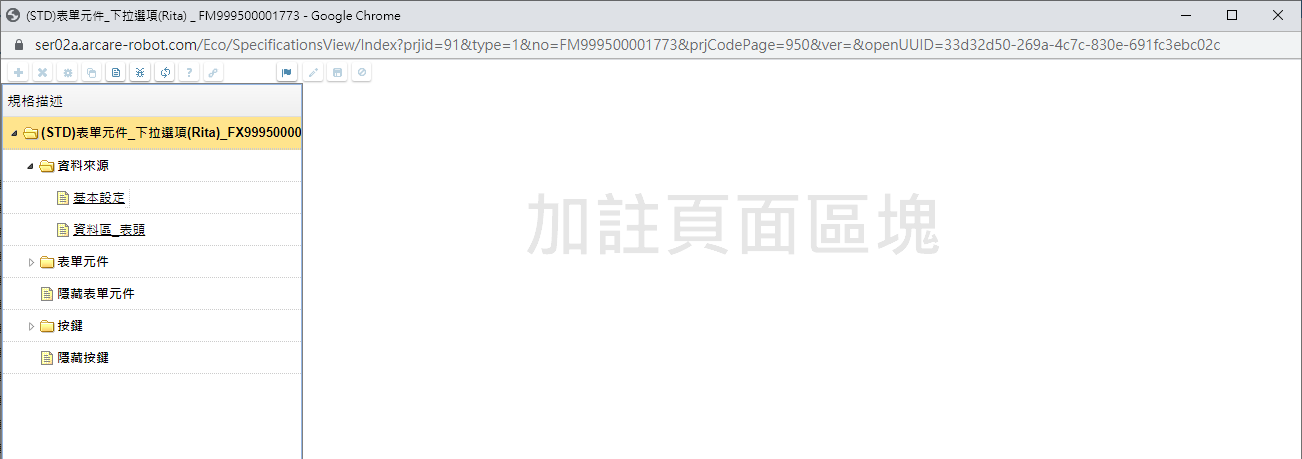
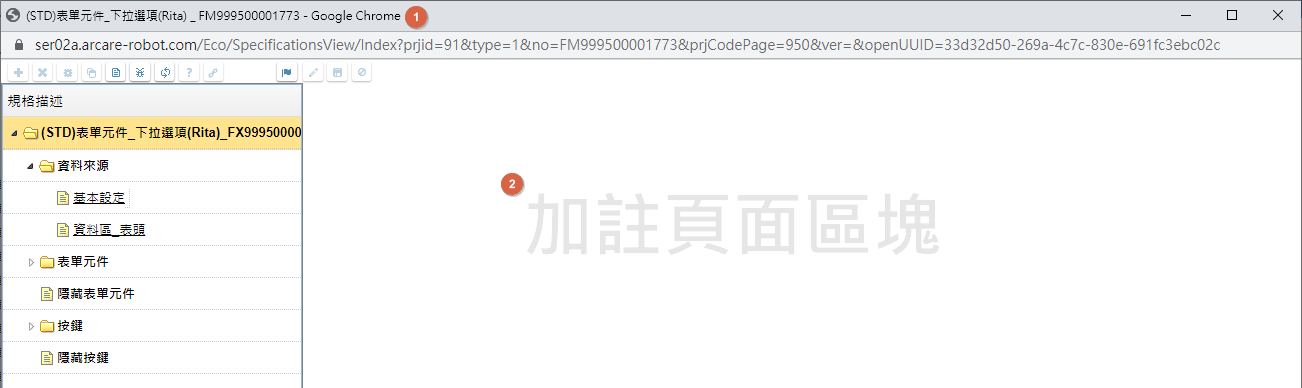
#8637

diff --git a/8.10.2/IDE/Specification/SpecificationsView/README.md b/8.10.2/IDE/Specification/SpecificationsView/README.md
@@ -5,133 +5,189 @@
 * [版面資訊通則][link_ruleother1]
 
 ## <div id="form-action">動作說明</div>
-* 開啟後視窗寬高預設為 1100 * 700, 並提供使用者調整寬高
-* 動作流程
-    * ![pic][image_flow_open]
-
+* 開啟後視窗寬高預設為 1300 * 750, 並提供使用者調整寬高
 
 ## <div id="object-desc">欄位說明</div>
 
 * <p id="fieldbreak1" style="color:blue;font-weight:bold">基本</p>
 
-    * ![pic][image_spec_form_block1]
+    * ![pic][image_fieldbreak2]
     * `(1)視窗標題`
         * 用途說明
         * 規格說明
             * 依專案語系顯示: 表單名稱_表單料號
-    * `(1)新增子節點`
+    * `(2)加註頁面區塊`
         * 用途說明
         * 規格說明
-            * 當駐留節點為【資料來源、隱藏表單元件、隱藏按鍵】按鈕致能, 否則 除能
-            * 當駐留節點=資料來源: 開啟[新增資料區][]
-            * 當駐留節點=隱藏表單元件: 開啟[新增隱藏元件][]
-            * 當駐留節點=隱藏按鍵: 開啟[新增隱藏按鍵][]
-    * `(1)刪除子節點`
+            * 依駐留節點類別, 顯示對應的規格定義內容
+
+* <p id="fieldbreak2" style="color:blue;font-weight:bold">規格描述區塊</p>
+
+    * ![pic][image_fieldbreak2]
+    * `(1)規格描述區塊`
         * 用途說明
         * 規格說明
-            * 當駐留節點為【資料來源-資料區、隱藏元件名_元件料號、隱藏按鍵名_按鍵料號、非基本設定的加註行為選項】按鈕致能, 否則 除能
+            * 顯示表單相關分類、單元、加註，依樹狀方式呈現
+                * 樹狀分階為 `(2)根節點`、`(3)單元分類`、`(4)單元`、`(5)加註行為`
+            * 節點圖示顯示
+                * 節點內有子階時, 節點圖示為資料夾, 並可展開/關閉子階內容
+                * 節點內無子階時, 節點圖示為文件
+            * 可調整區塊寬度, 規則如下:
+                * 調整後最小寬度不得低於**280px**; 最大寬度不得高於**500px**
+                * 規格定義視窗的寬度, 在調整過程中同比例增加寬度
+    * `(2)根節點`
+        * 用途說明
+        * 規格說明
+            * 顯示 "表單名稱 _ 成品料號"
+            * 駐留節點, `加註頁面區塊`清空
+            * `(6)滑鼠右鍵選單`: 重新載入
+    * `(3)單元分類`
+        * 用途說明
+        * 規格說明
+            * 節點顯示固定文字, 分別為
+                * 資料來源
+                    * `(6)滑鼠右鍵選單`: 新增/重新載入
+                * 表單元件
+                    * `(6)滑鼠右鍵選單`: 重新載入
+                * 隱藏表單元件
+                    * `(6)滑鼠右鍵選單`: 新增/重新載入
+                * 按鍵
+                    * `(6)滑鼠右鍵選單`: 重新載入
+                * 隱藏按鍵
+                    * `(6)滑鼠右鍵選單`: 新增/重新載入                
+            * 駐留節點, `加註頁面區塊`清空
+    * `(4)單元`
+        * 用途說明
+        * 規格說明
+            * 顯示 "(加註數量) 單元名稱 _ 單元料號"
+            * 駐留節點, `加註頁面區塊`清空
+            * `(6)滑鼠右鍵選單`
+                * 元件單元: 行為選項/複製其他元件/重新載入
+                * 隱藏元件單元: 行為選項/刪除/重新命名/複製其他元件/重新載入
+                * 按鍵單元: 行為選項/複製其他按鍵/重新載入
+                * 隱藏按鍵單元: 行為選項/刪除/重新命名/複製其他按鍵/重新載入
+            * 執行滑鼠雙擊時, 可開啟[規格備註][link_specification]
+    * `(5)加註行為`
+        * 用途說明
+        * 規格說明
+            * 資料來源下的加註行為
+                * 基本設定
+                    * 顯示行為名稱
+                    * `(6)滑鼠右鍵選單`: 重新載入
+                    * 執行滑鼠雙擊時, 可開啟[規格備註][link_specification]
+                * 資料區
+                    * 顯示 "資料區_檔區"
+                    * `(6)滑鼠右鍵選單`: 新增/刪除/元件對應/重新載入
+            * 元件加註行為
+                * 基本設定
+                    * 顯示行為名稱
+                    * `(6)滑鼠右鍵選單`: 行為選項/重新載入
+                * 其它加註行為
+                    * 若加註有設定執行條件, 則顯示 "行為名稱【執行條件說明】", 若無設定, 則顯示行為名稱
+                    * `(6)滑鼠右鍵選單`: 行為選項/刪除/複製本筆/重新載入
+            * 按鍵加註行為
+                * 基本設定
+                    * 顯示行為名稱
+                    * `(6)滑鼠右鍵選單`: 行為選項/重新載入
+                * 執行限制
+                    * 若加註有設定前置條件、判斷條件, 則顯示 "執行限制【前置條件說明, 判斷條件說明】", 若無設定, 則顯示行為名稱
+                    * `(6)滑鼠右鍵選單`: 行為選項/刪除/複製本筆/重新載入
+                * 其它加註行為
+                    * 若加註有設定執行條件, 則顯示 "行為名稱【執行條件說明1, 執行條件說明2, ...】", 若無設定, 則顯示行為名稱
+                    * `(6)滑鼠右鍵選單`: 行為選項/刪除/複製本筆/重新載入
+            * 駐留節點, 將對應的加註行為設定頁面載入`加註頁面區塊`中
+
+* <p id="fieldbreak3" style="color:blue;font-weight:bold">按鍵操作區塊</p>
+
+    * ![pic][image_fieldbreak3]
+    * `(1)新增節點`
+        * 用途說明
+        * 規格說明
+            * 當駐留節點為 資料來源、隱藏表單元件、隱藏按鍵、資料區 則按鍵致能, 否則 除能
+            * 當駐留節點為 資料來源、資料區: 開啟[新增資料區][link_AddDataAreaForm]
+            * 當駐留節點為 隱藏表單元件: 開啟[新增隱藏元件][link_AddHiddenObject]
+            * 當駐留節點為 隱藏按鍵: 開啟[新增隱藏按鍵][link_AddHiddenButton]
+    * `(2)刪除節點`
+        * 用途說明
+        * 規格說明
+            * 當駐留節點為 資料來源/資料區、隱藏元件單元、隱藏按鍵單元、非基本設定的加註行為選項 則按鍵致能, 否則 除能
             * 執行刪除駐留節點、及其下所有子階節點對應的加註資料
-    * `(1)設定`
+    * `(3)行為選項`
         * 用途說明
         * 規格說明
-            * 當駐留節點為【元件名_元件料號、按鍵名_按鍵料號、隱藏元件名_元件料號、隱藏按鍵名_按鍵料號】按鈕致能, 否則 除能
-            * 當駐留節點=元件名_元件料號、隱藏元件名_元件料號, 開啟[元件行為選項][]
-            * 當駐留節點=按鍵名_按鍵料號、隱藏按鍵名_按鍵料號, 開啟[按鍵行為選項][]
-            * 關閉行為選項, 重新產生並取得規格關聯的加註內容
-    * `(2)規格備註`
+            * 當駐留節點為 元件單元、按鍵單元、隱藏元件單元、隱藏按鍵單元、上述單元的加註行為 則按鍵致能, 否則 除能
+            * 當駐留節點為 元件單元、隱藏元件單元, 開啟[元件行為選項][link_ObjectBehavior]
+            * 當駐留節點為 按鍵單元、隱藏按鍵單元, 開啟[按鍵行為選項][link_ButtonBehavior]
+            * 關閉行為選項, 重新載入節點及單元的加註數量
+    * `(4)加註複製`
         * 用途說明
         * 規格說明
-            * 當駐留節點項目為【表單名稱_表單成品料號、基本設定、資料來源-資料區、元件名_元件料號、按鍵名_按鍵料號、隱藏元件名_元件料號、隱藏按鍵名_按鍵料號】按鈕致能, 否則 除能
-            * 當致能時, 執行按鈕時, 依駐留節點開啟對應的[規格備註][link_specification]
-                * 若駐留節點項目為【表單名稱_表單成品料號、基本設定、資料來源-資料區】, 開啟後傳入報表名稱、報表料號
-                * 若駐留節點項目為【元件名_元件料號、按鍵名_按鍵料號、隱藏元件名_元件料號、隱藏按鍵名_按鍵料號】, 開啟後傳入報表元件名稱、報表元件料號
-        * 動作流程
-            * ![pic][image_flow_open_spec]
-    * `(3)檢錯`
+            * 當駐留節點為 元件單元、按鍵單元、隱藏元件單元、隱藏按鍵單元 則按鍵致能, 否則 除能
+            * 當駐留節點為 元件單元、隱藏元件單元, 開啟[元件加註複製][link_CopyObjectAnnotationForm]
+            * 當駐留節點為 按鍵單元、隱藏按鍵單元, 開啟[按鍵加註複製][link_CopyButtonAnnotationForm]
+            * 關閉行為選項, 重新載入節點及單元的加註數量   
+    * `(5)規格備註`
+        * 用途說明
+        * 規格說明
+            * 當駐留節點為 資料來源、元件單元、按鍵單元、隱藏元件單元、隱藏按鍵單元 則按鍵致能, 否則 除能
+            * 依駐留節點開啟對應的[規格備註][link_specification]
+    * `(6)檢錯`
         * 用途說明
             * 檢查駐留筆表單及表單元件已完成的規格, 進行語法及完成度的檢查
         * 規格說明
             * 當檢查完成, 且無錯誤時, 顯示訊息盒【標題: 系統訊息 / 內容: 檢錯完成。 / 按鍵: 確定】
                 * 執行確定, 關閉表單
             * 當檢查完成, 且存在錯誤時, 展開所有節點, 錯誤單元以紅字顯示, 並以Hint方式顯示第一筆錯誤資訊
-        * 動作流程
-            * ![pic][image_flow_error_detection]
-    * `(4)重新整理`
+    * `(7)重新載入`
         * 用途說明
         * 規格說明
-            * 重新顯示`(8)規格描述區塊`, 若已駐留節點, 重整後駐留節點須為原駐留節點
-        * 動作流程
-            * ![pic][image_flow_reflash]
-    * `(5)線上說明`
+            * 重新載入`(1)規格描述區塊`, 載入後駐留原駐留節點
+    * `(8)線上說明`
         * 用途說明
         * 規格說明
-            * 當駐留節點項目為【表單名稱_表單成品料號、基本設定、資料來源-資料區、元件名_元件料號、按鍵名_按鍵料號、隱藏元件名_元件料號、隱藏按鍵名_按鍵料號】按鈕致能, 否則 除能
+            * 當駐留節點為 根節點、元件單元、按鍵單元、隱藏元件單元、隱藏按鍵單元、加註行為 則按鍵致能, 否則 除能
             * 依駐留節點開啟對應的線上說明文件
-        * 動作流程
-            * ![pic][image_flow_online_help]
-    * `(6)相關元件`
+    * `(9)相關元件`
         * 用途說明
         * 規格說明
-            * <ps>以下為目前操作行為, 待確認是否修正</ps>
-            * 當駐留節點項目為【元件名_元件料號、按鍵名_按鍵料號、隱藏按鍵名_按鍵料號、加註行為選項】按鈕致能, 否則 除能
-            * 依駐留報表元件單元, 開啟[元件欄位清單][], 傳入: 表單名稱、駐留單元名稱
-        * 動作流程
-            * ![pic][image_flow_components]
-    * `(7)加註狀態`
+            * 當駐留節點為 元件單元、按鍵單元、隱藏按鍵單元、加註行為 則按鍵致能, 否則 除能
+            * 依駐留報表元件單元, 開啟[元件欄位清單][link_FormAndReportComponents], 傳入: 表單名稱、駐留單元名稱
+    * `(10)加註狀態`
         * 用途說明
             * 記錄該表單是否加註完成的標記
         * 規格說明
-            * 當狀態為**開工**時, 執行按鍵將狀態改為**完工**, 顯示完成圖示: ![pic][image_report_annotation_finish]
-            * 當狀態為**完工**時, 執行按鍵將狀態改為**開工**, 顯示開工圖示: ![pic][image_report_annotation_start]
-        * 動作流程
-            * ![pic][image_flow_annotation_state]
-    * `(8)規格描述區塊`
+            * 當狀態為開工時, 執行按鍵將狀態改為完工
+            * 當狀態為完工時, 執行按鍵將狀態改為開工
+    * `(11)元件對應`
         * 用途說明
         * 規格說明
-            * 節點顯示方式, 請參考畫面及下列規則
-                * 節點內有子階時, 節點圖示為資料夾, 並可展開/關閉子階內容
-                * 節點內無子階時, 節點圖示為文件
-                * 各階層顯示內容如下
-                    |節點顯示內容 |所屬階層 |筆數 |支援雙擊 |同階排序方式 |顯示語系來源 |
-                    |------------|--------|-----|--------|------------|-----------|
-                    |報表名稱_報表成品料號 |0 |1|v | |專案 |
-                    |基本設定      |1 |1 |v | |平台 |
-                    |資料來源      |1 |1 |v | |平台 |
-                    |分頁模式      |1 |1 |v | |平台 |
-                    |報表元件      |1 |1 | | |平台 |
-                    |報表元件名稱_元件料號 |2 |n |v |依單元料號 |專案 |
-            * 當駐留節點支援雙擊, 則執行滑鼠雙擊時, 可開啟[規格備註][link_specification]
-                * 若駐留節點項目為【報表名稱_報表成品料號、基本設定、資料來源、分頁模式】, 開啟後傳入報表名稱、報表料號
-                * 若駐留節點項目為【報表元件名稱_元件料號】, 開啟後傳入報表元件名稱、報表元件料號
-            * 依駐留節點類別+元件類別, 單擊開啟對應加註頁面, 顯示於`(9)加註頁面區塊`
-            * 節點: 報表元件名稱, 取得駐留筆報表, 且報表元件類型存在【rTP.文字標題、rTF.文字方塊、rTA.多行文字、rCB.核取方塊、rFrame.框線、rBC.條碼、rEChart.嵌入圖表、rImg.圖片、rLogo.企業標誌】的報表元件清單顯示
-            * 滑鼠移入右邊框, 可調整區塊寬度, 規則如下:
-                * 調整後最小寬度不得低於**280px**; 最大寬度不得高於**500px**
-                * 規格定義視窗的寬度, 在調整過程中同比例增加寬度
-        * 動作流程
-            * ![pic][image_flow_annotation]
-    * `(9)加註頁面區塊`
+            * 開啟[元件對應][link_FAConnect]
+    * `(12)重新命名`
         * 用途說明
         * 規格說明
-            * 依駐留節點類別+元件類別, 顯示對應的規格定義內容
-
+            * 節點進入編輯狀態, 可修改名稱, 跳離後存回多語內容
+    * `(13)複製本筆`
+        * 用途說明
+        * 規格說明
+            * 依駐留加註行為整筆複製
+            * 若複製的節點為 按鍵加註_執行限制, 則執行序取最大號+1
+            * 若複製的節點為 按鍵加註_其它加註行為, 則優先序取最大號+1
 
 <!-- 圖片 -->
 [image_spec_form]:attachment/SpecificationsView.png
-[image_spec_form_block1]:attachment/SpecificationsView_block1.png
-[image_report_annotation_start]:attachment/ReportAnnotation_Start.png
-[image_report_annotation_finish]:attachment/ReportAnnotation_Finish.png
-
-[image_flow_open]:attachment/SpecificationsReportFlow_open.png
-[image_flow_open_spec]:attachment/SpecificationsReportFlow_open_spec.png
-[image_flow_error_detection]:attachment/SpecificationsReportFlow_error_detection.png
-[image_flow_reflash]:attachment/SpecificationsReportFlow_reflash.png
-[image_flow_online_help]:attachment/SpecificationsReportFlow_online_help.png
-[image_flow_components]:attachment/SpecificationsReportFlow_components.png
-[image_flow_annotation_state]:attachment/SpecificationsReportFlow_annotation_state.png
-[image_flow_annotation]:attachment/SpecificationsReportFlow_annotation.png
+[image_fieldbreak1]:attachment/SpecificationsView_block1.png
+[image_fieldbreak2]:attachment/SpecificationsView_block2.png
+[image_fieldbreak3]:attachment/SpecificationsView_block3.png
 
 <!-- 超連結 -->
-[link_fieldbreak1]:#fieldbreak1 "欄位說明/基本"
-[link_ruleother1]:/8.10.1/IDE/Specification/RulesOther/README#ruleother1 "共用通則_其它/版面資訊通則"
-[link_specification]:/8.10.1/IDE/Specification/SpecificationRemarks/README "規格備註"
+[link_ruleother1]:../RulesOther/README#ruleother1 "共用通則_其它/版面資訊通則"
+[link_specification]:../SpecificationRemarks/README "規格備註"
+[link_AddDataAreaForm]:../AddDataAreaForm/README "新增資料區"
+[link_AddHiddenObject]:../AddHiddenObject/README "新增隱藏元件"
+[link_AddHiddenButton]:../AddHiddenButton/README "新增隱藏按鍵"
+[link_ObjectBehavior]:../ObjectBehavior/README "元件行為選項"
+[link_ButtonBehavior]:../ButtonBehavior/README "按鍵行為選項"
+[link_CopyObjectAnnotationForm]:../CopyObjectAnnotationForm/README "元件加註複製"
+[link_CopyButtonAnnotationForm]:../CopyButtonAnnotationForm/README "按鍵加註複製"
+[link_FAConnect]:../FAConnect/README "元件對應"
+[link_FormAndReportComponents]:../FormAndReportComponents/README "元件欄位清單"
